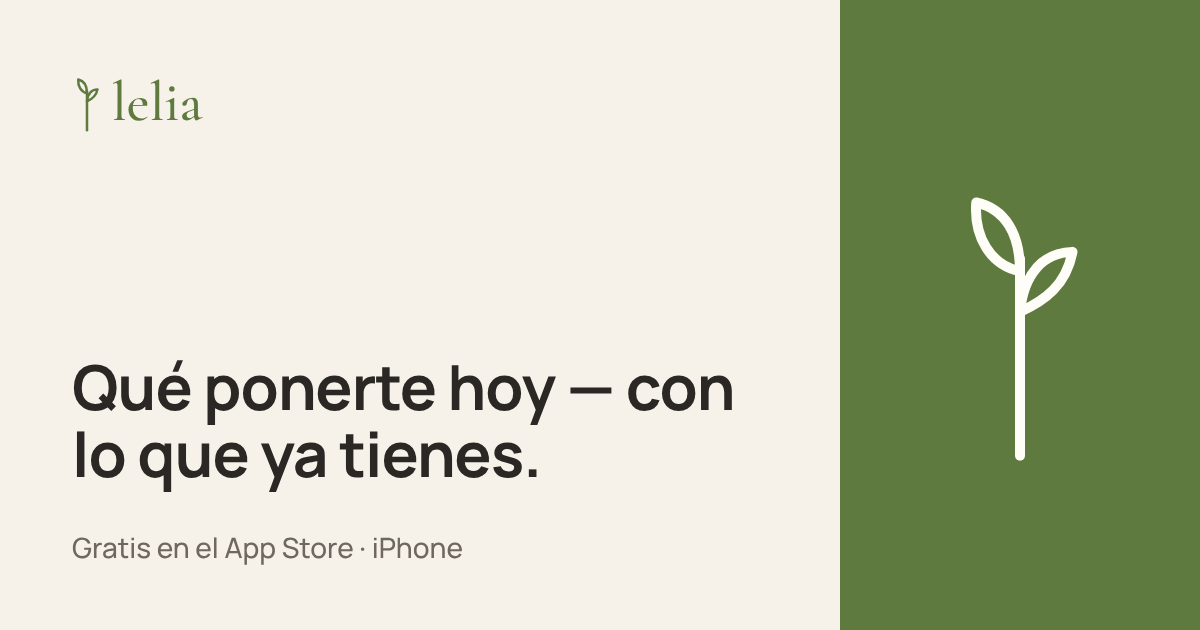
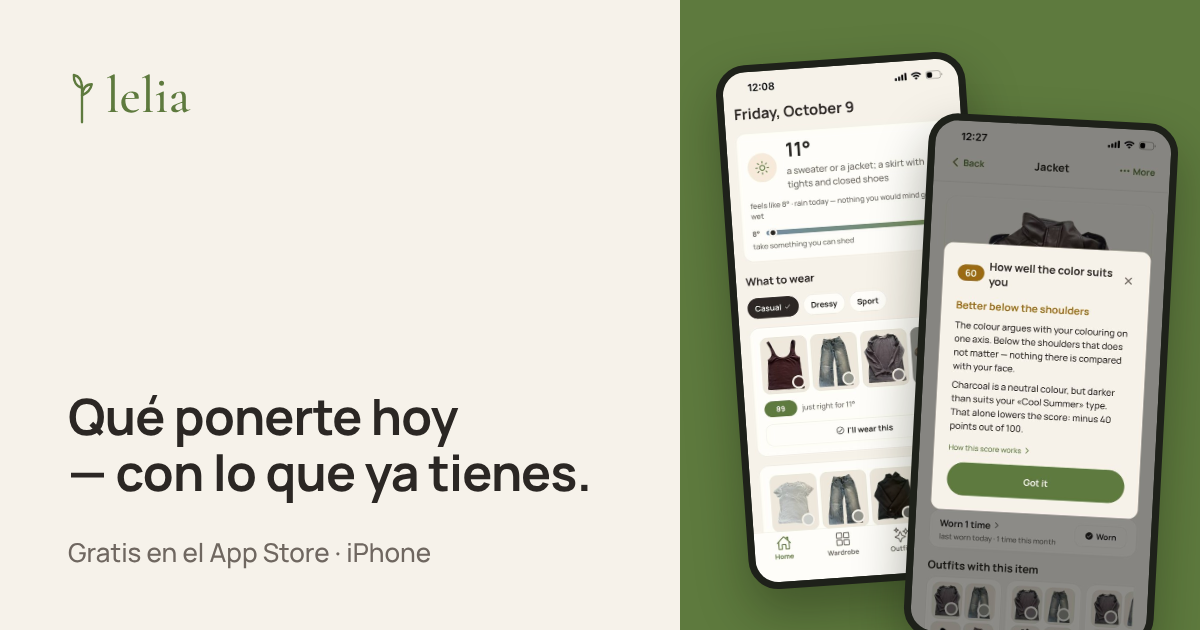
Link previews show the app: two 1.2 screenshots instead of the sprout
Each language's 1200x630 card keeps the headline on the left and puts
Home with today's outfits and an explained score on the right, on the
brand green. The headline breaks at its dash.

Claude-Session: https://claude.ai/code/session_016fi9kMpocJWXWBXA3oierB

diff --git a/README.md b/README.md
@@ -222,12 +222,10 @@ without recording and without GeoIP.
   and language, as before.
 - Open Graph and Twitter tags with a preview image per language
   (`assets/og/og-<lang>.png`, 1200×630) — links pasted into Telegram,
-  Instagram or Slack show a card instead of a bare URL. For now each card is
-  the page's `hero.title` beside the Lelia sprout: the app captures on the
-  page still show the old Ecru interface, and a preview with them would show
-  an app that no longer looks like that. Once the 1.2 App Store screenshots
-  exist, re-render the cards with two of them (outfits with their reasons,
-  and a score opened into its explanation).
+  Instagram or Slack show a card instead of a bare URL. Each card is the
+  page's `hero.title` beside two 1.2 screenshots on the brand green: Home with
+  today's outfits, and a score opened into its explanation (`today` and
+  `suits` from `assets/shots`). Re-render them whenever those two shots change.
 - `apple-itunes-app` — Safari on iPhone shows the App Store smart banner.
 - JSON-LD on the home page: `MobileApplication` (iOS, free) and `FAQPage`
   built from the `faq.*` strings, so search can show the answers directly.
